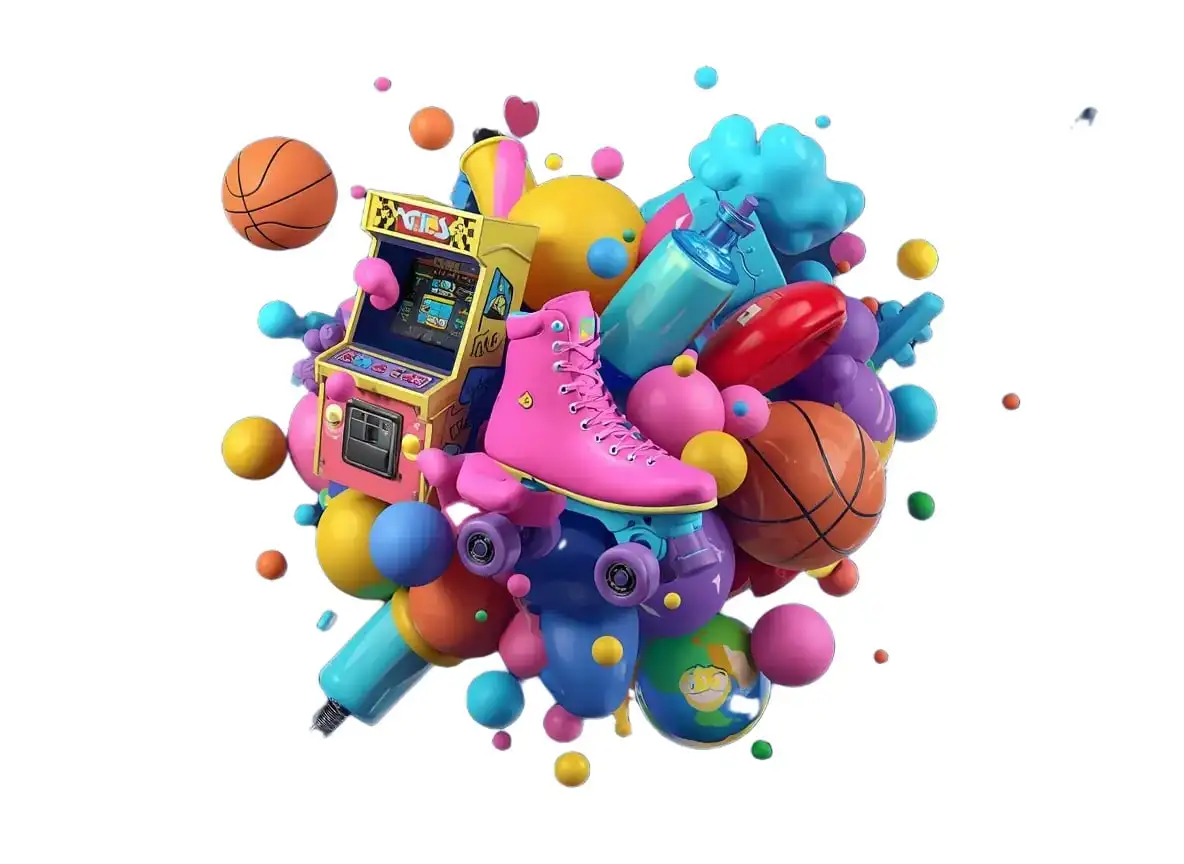
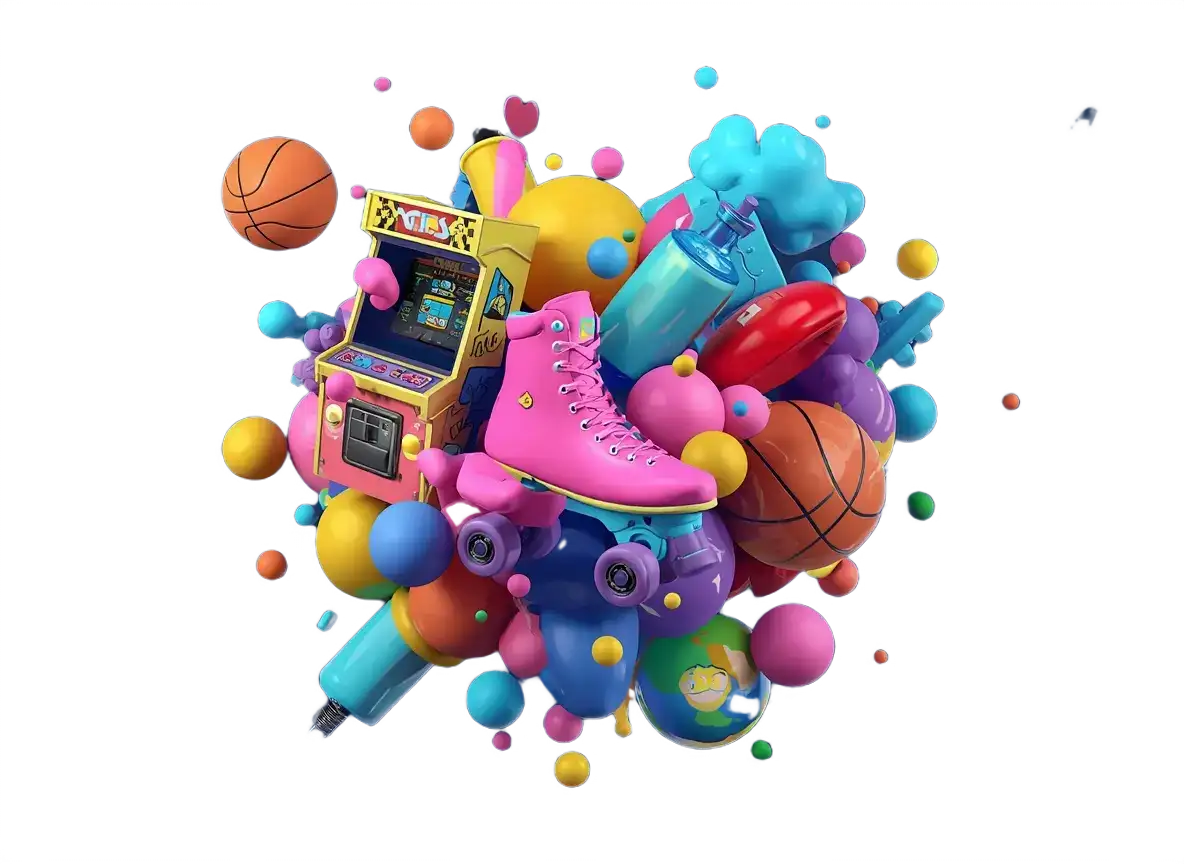
Deploying to gh-pages from @ Dmitriy0212/STP-13025@5853d2fd48586ee05ca2bf8b10f16ba85866f04a 🚀

diff --git a/index.html b/index.html
@@ -13,7 +13,7 @@
     <script type="module" crossorigin src="/STP-13025/index.js"></script>
     <link rel="modulepreload" crossorigin href="/STP-13025/assets/vendor-BXmUUni6.js">
     <link rel="stylesheet" crossorigin href="/STP-13025/assets/vendor-jLGR6M_i.css">
-    <link rel="stylesheet" crossorigin href="/STP-13025/assets/styles-CE8mGsLW.css">
+    <link rel="stylesheet" crossorigin href="/STP-13025/assets/styles-BXlov3E0.css">
   </head>
   <body>
     <header class="header">

diff --git a/privacypolicy.html b/privacypolicy.html
@@ -11,7 +11,7 @@
       href="https://fonts.googleapis.com/css2?family=Fredoka:wght@300;400;500;600;700&display=swap"
       rel="stylesheet"
     />
-    <link rel="stylesheet" crossorigin href="/STP-13025/assets/styles-CE8mGsLW.css">
+    <link rel="stylesheet" crossorigin href="/STP-13025/assets/styles-BXlov3E0.css">
   </head>
   <body>
     <main class="privacypolicy-container">

diff --git a/termsofservice.html b/termsofservice.html
@@ -11,7 +11,7 @@
       href="https://fonts.googleapis.com/css2?family=Fredoka:wght@300;400;500;600;700&display=swap"
       rel="stylesheet"
     />
-    <link rel="stylesheet" crossorigin href="/STP-13025/assets/styles-CE8mGsLW.css">
+    <link rel="stylesheet" crossorigin href="/STP-13025/assets/styles-BXlov3E0.css">
   </head>
   <body>
     <main class="termsofservice-container">

diff --git a/assets/styles-BXlov3E0.css b/assets/styles-BXlov3E0.css
@@ -1,0 +1,1 @@
+h1,h2,h3,h4,h5,h6,p{margin:0}p:last-child{margin-bottom:0}ul{margin:0;padding:0;list-style:none}a{color:currentColor;text-decoration:none}button{cursor:pointer}img{display:block;max-width:100%;height:auto}:root{font-family:Fredoka,system-ui,-apple-system,BlinkMacSystemFont,Segoe UI,Roboto,Oxygen,Ubuntu,Cantarell,Open Sans,Helvetica Neue,sans-serif;font-size:16px;line-height:1.5;font-weight:400;color:#242424;font-synthesis:none;text-rendering:optimizeLegibility;-webkit-font-smoothing:antialiased;-moz-osx-font-smoothing:grayscale;-webkit-text-size-adjust:100%}html{scroll-behavior:smooth}body{overflow-x:hidden;display:flex;flex-direction:column;min-width:100vw;min-height:100vh;margin:0;padding:0;box-sizing:border-box;color:#080c09;font-weight:700;background:linear-gradient(269.86deg,#49cdfc .12%,#fba4cd 99.88%);background-attachment:fixed}main{flex-grow:1}main:has(.back-link){text-align:center}.container{min-width:320px;max-width:375px;margin:0 auto;padding:0 16px}@media only screen and (min-width: 1440px){.container{max-width:1440px;padding:0 80px}}@keyframes slide{0%{transform:translate(-140%) translateY(-50%)}to{transform:translate(-104%) translateY(-50%)}}@keyframes stretch{0%{opacity:0;transform:translate(-50%) translateY(100%) scale(.2)}to{opacity:1;transform:translate(-50%) translateY(100%) scale(1)}}.header{padding:0 16px;position:fixed;background:linear-gradient(269.86deg,#49cdfc .12%,#fba4cd 99.88%);z-index:10000;width:100%}.wrapper{display:flex;flex-direction:row;justify-content:space-between;align-items:center}.nav{display:flex;justify-content:space-between;margin-right:auto;width:100%}.nav-logo{display:inline-flex;align-items:center;justify-content:center;width:161px;height:52px;margin-top:4px}.nav-list,.btn-play{display:none}.burger-btn{width:57px;height:34px;background-color:#692ea4;box-shadow:1px 2px 2px #4285f4;border-radius:10px;border:none;cursor:pointer;display:flex;justify-content:center;align-items:center;padding:0}.burger-menu{width:100vw;height:100vh;display:none;flex-direction:column;position:fixed;top:0;right:0;z-index:20000;border-radius:5px;padding:56px 24px;-webkit-backdrop-filter:blur(20px);backdrop-filter:blur(20px);background:#fffc}.burger-menu-container{display:flex;flex-direction:column;align-items:center}.burger-menu-list{display:flex;flex-direction:column;gap:40px}.btn-close{position:absolute;top:18px;right:22px;background:transparent;border:none;font-size:24px;cursor:pointer}.burger-menu-item{font-family:var(--font-family);font-weight:500;font-size:24px;color:#274c5a}[data-visible=open]{display:flex}[data-visible=close]{display:none}@media only screen and (min-width: 1440px){.header{padding:16px 80px}.nav-logo{width:173px;height:56px;margin-top:12px}.nav-list{display:flex;align-items:center;justify-content:flex-end;gap:40px;flex-wrap:nowrap;white-space:nowrap;margin-right:149px}.nav-item{font-family:var(--font-family);font-weight:400;font-size:24px;color:#fff}.nav-link{position:relative;display:block;font-weight:500;letter-spacing:.02em;transition:.2s ease-in}.nav-link:hover,.nav-link:focus{color:#747bff}.nav-link:after{content:"";position:absolute;bottom:0;left:50%;transform:translate(-50%) translateY(100%);width:110%;height:4px;border-radius:4px;transform-origin:center;animation:stretch .4s cubic-bezier(.68,-.55,.27,1.55) .2s both}.nav-link.active:after{background:#747bff}.btn-play{display:inline-flex;align-items:center;justify-content:center;gap:10px;white-space:nowrap;border-radius:10px;padding:8px 12px;width:139px;height:40px;background:#000}.btn-play-text{font-family:var(--font-family);font-weight:400;font-size:20px;color:#fff}.btn-play:hover{transform:scale(1.1)}.burger-btn{display:none}}.hero{padding:0 16px;background:linear-gradient(269.86deg,#49cdfc .12%,#fba4cd 99.88%)}.hero-container{display:flex;flex-direction:column;align-items:center;text-align:center}.hero-image{display:flex;justify-content:center;align-items:center;margin-top:45px;width:100%}.hero-character{max-width:317px;height:auto;display:block}.hero-content{display:flex;flex-direction:column;align-items:center;text-align:center;margin-top:-30px}.hero-title{align-self:flex-start;text-align:left;width:100%;margin-bottom:12px;font-family:var(--third-family);font-weight:400;font-size:32px;color:#fff;line-height:1.2;text-shadow:0 9px 9px #4f228a}.hero-description{align-self:flex-start;text-align:left;width:100%;font-family:var(--font-family);font-weight:400;font-size:16px;color:#ffffffd9;margin-bottom:24px}.btn-play-hero{display:inline-flex;align-items:center;justify-content:center;gap:10px;white-space:nowrap;border-radius:10px;padding:8px;width:169px;height:50px;margin-bottom:24px;box-shadow:0 4px 4px #[phone redacted];background:#000}.btn-play-hero-text-light{font-family:var(--font-family);font-weight:300;font-size:14px;color:#fff}.btn-play-hero-text-bold{font-family:var(--font-family);font-weight:500;font-size:14px;color:#fff}.play-icon{width:16px;height:19px}.hero-stats{display:flex;flex-direction:row;gap:16px;margin-bottom:50px}.stat-item-rating{display:flex;align-items:center;justify-content:center;gap:4px;border:2px solid #45075d;border-radius:10px;padding:8px 12px;width:61px;height:31px;box-shadow:0 9px 3px #45075d;background-color:#fff}.stat-item-reviews{display:flex;align-items:center;justify-content:center;gap:4px;border:2px solid #45075d;border-radius:10px;padding:8px 12px;width:70px;height:32px;box-shadow:0 9px 3px #45075d;background-color:#fff}.stat-item-download{display:flex;align-items:center;justify-content:center;gap:4px;border:2px solid #45075d;border-radius:10px;padding:8px 12px;width:77px;height:31px;box-shadow:0 9px 3px #45075d;background-color:#fff}.stat-label{display:none}.stat-value{font-family:var(--font-family);font-weight:700;font-size:12px;color:#274c5a}.stat-icon{width:16px;height:16px}@media only screen and (min-width: 1440px){.hero{padding:16px 80px;background:url(/STP-13025/img/webp/desc/stars.svg) center/cover no-repeat,linear-gradient(269.86deg,#49cdfc .12%,#fba4cd 99.88%)}.hero-container{flex-direction:row;align-items:center;justify-content:space-between;background:url(/STP-13025/img/webp/desc/hero.webp) right center / 60% no-repeat}.hero-image{width:50%;display:none;order:2;margin-top:0}.hero-character{max-width:100%}.hero-content{width:61%;text-align:left;align-items:flex-start;order:1;padding-top:144px}.hero-title{margin-bottom:16px;font-weight:500;font-size:75px;line-height:1.1}.hero-description{font-size:32px}.btn-play-hero{padding:8px 16px;width:373px;height:75px;margin-bottom:140px}.btn-play-hero-text-light,.btn-play-hero-text-bold{font-size:32px}.play-icon{width:38px;height:38px}.hero-stats{align-self:center;justify-content:center;align-items:center;gap:24px;width:100%;margin:0 auto 40px 400px}.stat-item-rating{width:159px;height:45px}.stat-item-reviews{width:190px;height:45px}.stat-item-download{width:235px;height:45px}.stat-label{display:flex;font-family:var(--font-family);font-weight:700;font-size:24px;color:#274c5a;gap:4px}.stat-value{font-size:24px}.stat-icon{width:24px;height:24px}}.about-game{padding:0 16px;background:linear-gradient(269.86deg,#49cdfc .12%,#fba4cd 99.88%);scroll-margin-top:100px}.about-game-container{display:flex;flex-direction:column;align-items:center;text-align:center}.about-game-title{font-family:var(--font-family);font-weight:600;font-size:32px;line-height:1.2;color:#fff;margin-bottom:12px}.about-game-content{display:flex;flex-direction:column;align-items:center;text-align:left}.about-game-text{font-family:var(--font-family);font-weight:600;font-size:16px;line-height:1.4;color:#274c5a;max-width:343px}.mobile-only{content:"";display:block;height:18px}.desktop-break{display:none}.about-game-image{display:flex;justify-content:center;align-items:center;width:100%}.about-the-game{max-width:375px;height:auto;display:block}@media only screen and (min-width: 1440px){.about-game{padding:0 20px;background:url(/STP-13025/img/webp/desc/image%202.svg) center/cover no-repeat,linear-gradient(269.86deg,#49cdfc .12%,#fba4cd 99.88%)}.about-game-container{align-items:flex-start;text-align:left}.about-game-title{font-size:64px;line-height:1.1;margin-right:742px}.about-game-content{flex-direction:row;align-items:center;text-align:left;justify-content:space-between}.about-game-text{width:50%;order:2;font-size:24px;line-height:1.2;max-width:475px}.mobile-only{display:none}.desktop-break{display:inline}.about-game-image{order:1}.about-the-game{max-width:100%;margin-right:80px}}.how-to-play{background:linear-gradient(269.86deg,#49cdfc .12%,#fba4cd 99.88%);scroll-margin-top:100px}.slider-slide-how-to-play{height:66px;display:flex;justify-content:center}.how-to-play-container{display:flex;flex-direction:column;align-items:center;gap:16px}.how-to-play-title{text-align:center;font-family:var(--font-family);font-weight:600;font-size:32px;color:#fff}.how-to-play-swiper{width:100%}.card{box-sizing:border-box;height:66px!important;border-radius:10px;align-items:center;font-family:var(--font-family);font-weight:400;font-size:20px;color:#000;background-color:#fff;box-shadow:0 4px 10px #0000004d;transition:all .3s ease}.card-1{border:3px solid #2ca5ad}.card-2{border:3px solid #de86b0}.card-3{border:3px solid #cfb055}.card-4{border:3px solid #2ca5ad}.card-5{border:3px solid #6575e4}.card-6{border:3px solid #cfb055}.card-7{border:3px solid #de86b0}.card-8{border:3px solid #6575e4}.card-9,.card-10{border:3px solid #d72933}.card-11{border:3px solid rgba(138,56,245,.86)}.slider-nav-pag{display:flex;justify-content:space-between;align-items:center;flex-direction:column;margin-bottom:16px}@media only screen and (min-width: 1440px){.how-to-play{background:url(/STP-13025/img/webp/desc/image%208.svg) center/cover no-repeat,linear-gradient(269.86deg,#49cdfc .12%,#fba4cd 99.88%)}.how-to-play-container{align-items:flex-start;gap:32px}.how-to-play-title{text-align:left;font-size:64px}.card{padding:0 24px;margin-bottom:8px!important}.slider-nav-pag{margin-bottom:42px}}.gallery-content{flex-direction:column;align-items:center;display:flex}.gallery{background:linear-gradient(269.86deg,#49cdfc .12%,#fba4cd 99.88%);padding-top:32px;padding-bottom:32px}.slider__desc{font-family:Fredoka,sans-serif;font-weight:600;font-size:20px;line-height:1;letter-spacing:0;text-align:center;color:#274c5a}.gallery-title{font-weight:600;font-size:32px;line-height:1.2;letter-spacing:0%;color:#fff;text-align:center;margin-bottom:32px}.slider-arrows{background:inherit;border:none;width:46px;height:56px;transition:opacity .2s}.slider-arrows use{transition:fill .2s}.icon{display:inline-block;width:4em;height:4em;stroke-width:0;fill:#fbbc04}@media (hover: hover){.slider-arrows:hover use{fill:#f96f1a}}.slider-arrows:focus-visible use{fill:#f96f1a}.slider-arrows:active use{fill:#f96f1a}@media (hover: none){.slider-arrows:hover use{fill:#fbbc04}}.slider-arrows:disabled{pointer-events:none;opacity:.5}.slider{width:100%;max-width:1440px;margin:0 auto;padding:20px 0;box-sizing:border-box;overflow:hidden;display:flex;flex-direction:column}.swiper-slide:last-child{margin-right:0}.gallery-img{margin-bottom:12px}.gallery-icon{width:46px;height:56px;flex-shrink:0;display:block}.gallery-nav-pag{display:flex;justify-content:space-between;align-items:center;margin-top:42px;flex-direction:column}.swiper-pagination-arrows{display:flex;flex-direction:row;gap:16px}.pagination-slider__btn--prev,.pagination-slider__btn--next{width:46px}.pagination-slider__btn--next:after,.pagination-slider__btn--prev:after{display:none}.pagination-slider__btn--prev{left:10px}.pagination-slider__btn--next{right:10px}.slider__pagination{position:relative!important;left:0!important;transform:translate(0)!important;top:0!important}.swiper-pagination>span{background:#080c09}.slider__img-wrapper{position:relative;width:100%;overflow:hidden;border-radius:8px}.slider__image{width:100%;display:block;transition:opacity .3s ease;height:315px}.slider-slide{flex-shrink:0;width:100%;height:100%;position:relative;transition-property:transform;display:flex;flex-direction:column;justify-content:space-between;height:auto}@media only screen and (min-width: 1440px){.gallery{padding-top:104px;padding-bottom:80px}.gallery-content{align-items:flex-start}.gallery-title{text-align:left;font-size:64px;margin-bottom:24px}.popular-products{padding-top:80px;padding-bottom:80px}.popular-products-title{font-size:48px}.swiper-slide img{height:280px}.slider__desc{font-size:24px;line-height:1.2}.gallery-nav-pag{margin-top:24px}}.reviews{padding:32px 0;background:url(/STP-13025/img/webp/desc/stars.svg) center/cover no-repeat,linear-gradient(269.86deg,#49cdfc .12%,#fba4cd 99.88%);scroll-margin-top:100px}.reviews-content{flex-direction:column;display:flex;align-items:center;gap:24px}.reviews-title{font-weight:600;font-size:32px;line-height:1;letter-spacing:0%;color:#fff}.reviews-slider{width:330px;margin:0 auto;padding:20px 0;box-sizing:border-box;overflow:hidden;display:flex;flex-direction:column}.reviews-swiper-wrapper{display:flex;padding:0;margin:0;list-style:none}.reviews__image-conteiner{position:relative;display:flex;flex-direction:column;align-items:flex-end;width:100%;right:-23px}.reviews__image,.slider__image{display:block;max-width:100%;height:auto}.review__slide{background-color:#fff;flex-direction:column;justify-content:space-between;height:auto!important;display:flex!important;padding:12px;border-radius:10px;box-sizing:border-box}.review-icon{width:32px;height:32px;background-color:#274c5a;border-radius:100%;display:flex;align-items:center;justify-content:center}.review-item{display:flex;flex-direction:row;align-items:center;gap:10px}.reviews-nav-pag{display:flex;justify-content:space-between;align-items:center;margin-top:24px;flex-direction:column}.review-text{font-weight:300;font-size:14px;line-height:1;letter-spacing:0;text-align:start;color:#274c5a}.rating-rate>i{font-size:14px;color:#fdc403}@media only screen and (min-width: 1440px){.reviews-content{align-items:flex-start;background:url(/STP-13025/img/webp/desc/review.png) right center / 25% no-repeat}@media (min-resolution: 2dppx){.reviews-content{background-image:url(/STP-13025/img/webp/desc/[email redacted])}}.reviews-title{font-size:64px}.reviews-slider{width:684px}.reviews-container{display:flex;flex-direction:row-reverse;align-items:center}.reviews__image-conteiner{display:none}}.faqs{background:linear-gradient(269.86deg,#49cdfc .12%,#fba4cd 99.88%)}#q1,#q2,#q3,#q4,#q5{display:none}.faqs-content{display:flex;flex-direction:column;padding-top:32px;padding-bottom:32px;gap:12px;align-items:center}.faqs-title{font-weight:600;font-size:40px;line-height:1;letter-spacing:0%;color:#fff}.faqs-item{background-color:#fff;min-height:64px;display:flex;flex-direction:column;align-items:stretch;justify-content:center;border-radius:10px;padding:8px 12px}.faqs-list{display:flex;gap:18px;flex-direction:column;align-items:stretch}.faqs-item-text{display:flex;flex-direction:row;justify-content:space-between;align-items:center;display:none}.faqs-item-text p{font-weight:400;font-size:20px;line-height:1;letter-spacing:0%}.faqs-item-title{display:flex;flex-direction:row;justify-content:space-between;align-items:center}.faqs-item-title p{font-weight:400;font-size:20px;line-height:1;letter-spacing:0%}.faqs-item input:checked+.faqs-item-title{display:none}.faqs-item input:checked~.faqs-item-text{display:flex}.faqs-svg{width:18px;height:18px}@media only screen and (min-width: 1440px){.faqs-list{width:946px}.faqs-item-title p,.faqs-item-text p{font-size:24px}.faqs-content{padding-top:103px;padding-bottom:103px;gap:24px;align-items:center}}.contacts{background:linear-gradient(269.86deg,#49cdfc .12%,#fba4cd 99.88%)}.contacts-title{font-weight:600;font-size:40px;line-height:1.2;letter-spacing:0%;color:#086ada;text-align:center;margin-bottom:24px}.contacts-content{display:flex;padding-top:56px;padding-bottom:48px;flex-direction:column;align-items:center}.link-mail{font-weight:600;font-size:32px;line-height:1;letter-spacing:0%;color:#274c5a;display:inline-flex;align-items:center;flex-wrap:wrap;justify-content:center}.link-mail-svg{width:26px;height:20px}.container-img{margin-bottom:48px}@media only screen and (min-width: 1440px){.contacts-title{font-size:64px}.contacts-content{padding-top:104px;padding-bottom:80px}.link-mail{font-size:36px;flex-wrap:nowrap}.link-mail-svg{width:35px;height:30px}.container-img{margin-bottom:32px}}.footer{background-color:#274c5a}.footer-container{padding-top:16px;padding-bottom:12px;display:flex;flex-direction:column;gap:16px}.footer-nav{display:flex;justify-content:space-between;align-items:center}.footer-link{font-weight:400;font-size:14px;line-height:1;letter-spacing:0%;color:#fff;text-align:center}@media only screen and (min-width: 1440px){.footer-container{padding-top:22px;padding-bottom:23px;flex-direction:row;justify-content:space-between}.footer-nav{gap:43px}.footer-link{font-size:16px}}.privacypolicyh1{font-weight:600;font-size:40px;line-height:1;letter-spacing:0%;color:#fff}.privacypolicyh2{font-size:24px;line-height:1;letter-spacing:0%;color:#274c5a;margin-bottom:24px;margin-top:24px}.privacypolicyP{font-weight:400;font-size:20px;line-height:1;letter-spacing:0%;color:#274c5a}.privacypolicy-container{background:linear-gradient(269.86deg,#49cdfc .12%,#fba4cd 99.88%);display:flex;flex-direction:column;align-items:center}.privacypolicy-content{padding-top:32px;padding-bottom:32px}@media only screen and (min-width: 1440px){.privacypolicyh1{font-size:80px}.privacypolicyh2,.privacypolicyP{font-size:32px}.linc-beck{gap:22px;font-size:32px;margin-bottom:35px}.privacypolicy-content{padding:104px 80px 80px}}.termsofserviceh1{font-weight:600;font-size:40px;line-height:1;letter-spacing:0%;color:#fff}.termsofserviceh2{font-size:24px;line-height:1;letter-spacing:0%;color:#274c5a;margin-bottom:24px;margin-top:24px}.termsofserviceP{font-weight:400;font-size:20px;line-height:1;letter-spacing:0%;color:#274c5a}.termsofservice-container{background:linear-gradient(269.86deg,#49cdfc .12%,#fba4cd 99.88%);display:flex;flex-direction:column;align-items:center}.termsofservice-content{padding-top:32px;padding-bottom:32px}.linc-beck{gap:16px;display:flex;font-weight:400;font-size:20px;line-height:1;letter-spacing:0%;color:#274c5a;margin-bottom:12px;align-items:center}@media only screen and (min-width: 1440px){.termsofserviceh1{font-size:80px}.termsofserviceh2,.termsofserviceP{font-size:32px}.linc-beck{gap:22px;font-size:32px;margin-bottom:35px}.termsofservice-content{padding:104px 80px 80px}}